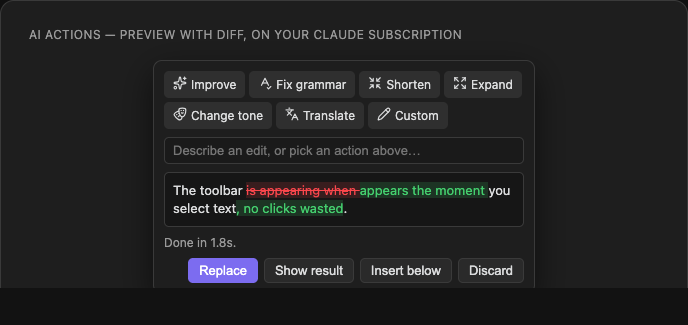
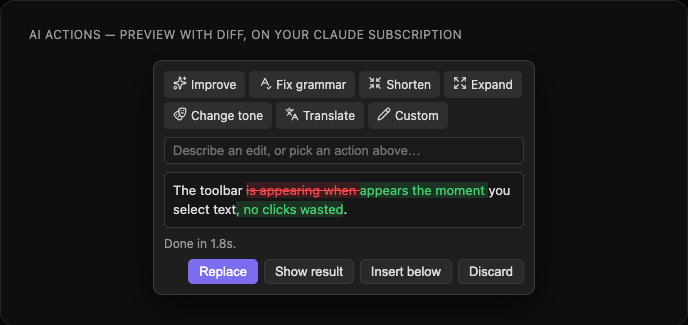
Add multi-row toolbar layout + cleaner AI working loader
New setting lays toolbar buttons across multiple rows (grid wrap, configurable columns), bypassing the overflow menu. The AI 'working' state now shows an animated shimmer 'Claude is working…' loader instead of a seconds counter. README gains multi-row + loader screenshots (rendered from the real styles.css).

diff --git a/docs/preview.html b/docs/preview.html
@@ -39,7 +39,7 @@
 
   html, body {
     margin: 0;
-    background: #121212;
+    background: #060608;
     font-family: var(--font-text);
     color: var(--text-normal);
   }
@@ -54,8 +54,8 @@
   }
 
   .card {
-    background: var(--background-primary);
-    border: 1px solid var(--background-modifier-border);
+    background: #0e0e10;
+    border: 1px solid #232325;
     border-radius: 14px;
     padding: 26px 28px 30px;
     position: relative;
@@ -125,6 +125,59 @@
     <p class="editor-line">Selection Toolbar makes <span class="sel">formatting and AI edits</span> one click away — themed to match your vault.</p>
   </div>
 
+  <!-- Shot 1b: multi-row (grid) toolbar -->
+  <div class="card" id="shot-grid">
+    <p class="caption">Multi-row toolbar (optional)</p>
+    <div class="float">
+      <div class="selection-toolbar selection-toolbar-grid" role="toolbar" style="--stb-cols: 7;">
+        <div class="selection-toolbar-btn is-active" aria-label="Bold"><i data-lucide="bold"></i></div>
+        <div class="selection-toolbar-btn" aria-label="Italic"><i data-lucide="italic"></i></div>
+        <div class="selection-toolbar-btn" aria-label="Strikethrough"><i data-lucide="strikethrough"></i></div>
+        <div class="selection-toolbar-btn" aria-label="Highlight"><i data-lucide="highlighter"></i></div>
+        <div class="selection-toolbar-btn" aria-label="Inline code"><i data-lucide="code"></i></div>
+        <div class="selection-toolbar-btn" aria-label="Heading 1"><i data-lucide="heading-1"></i></div>
+        <div class="selection-toolbar-btn" aria-label="Heading 2"><i data-lucide="heading-2"></i></div>
+        <div class="selection-toolbar-btn" aria-label="Heading 3"><i data-lucide="heading-3"></i></div>
+        <div class="selection-toolbar-btn" aria-label="Quote"><i data-lucide="quote"></i></div>
+        <div class="selection-toolbar-btn" aria-label="Bullet list"><i data-lucide="list"></i></div>
+        <div class="selection-toolbar-btn" aria-label="Numbered list"><i data-lucide="list-ordered"></i></div>
+        <div class="selection-toolbar-btn" aria-label="Checklist"><i data-lucide="square-check"></i></div>
+        <div class="selection-toolbar-btn" aria-label="Code block"><i data-lucide="square-code"></i></div>
+        <div class="selection-toolbar-btn" aria-label="Comment"><i data-lucide="message-square"></i></div>
+        <div class="selection-toolbar-btn" aria-label="Link"><i data-lucide="link"></i></div>
+        <div class="selection-toolbar-btn" aria-label="Internal link"><i data-lucide="file-symlink"></i></div>
+        <div class="selection-toolbar-btn" aria-label="Clear formatting"><i data-lucide="remove-formatting"></i></div>
+        <div class="selection-toolbar-btn is-ai" aria-label="AI actions"><i data-lucide="wand-2"></i></div>
+      </div>
+    </div>
+  </div>
+
+  <!-- Shot 1c: AI working loader -->
+  <div class="card" id="shot-working">
+    <p class="caption">AI working — animated, no seconds counter</p>
+    <div class="panel-stage">
+      <div class="selection-ai-panel">
+        <div class="selection-ai-actions">
+          <div class="selection-ai-action"><span><i data-lucide="sparkles"></i></span><span>Improve</span></div>
+          <div class="selection-ai-action"><span><i data-lucide="spell-check"></i></span><span>Fix grammar</span></div>
+          <div class="selection-ai-action"><span><i data-lucide="languages"></i></span><span>Translate</span></div>
+        </div>
+        <div class="selection-ai-prompt-row">
+          <input class="selection-ai-prompt" type="text" value="" placeholder="Describe an edit, or pick an action above…" />
+        </div>
+        <div class="selection-ai-output">
+          <div class="selection-ai-working">
+            <span class="selection-ai-spinner"></span>
+            <span class="selection-ai-working-label">Claude is working…</span>
+          </div>
+        </div>
+        <div class="selection-ai-footer">
+          <button class="selection-ai-btn">Stop</button>
+        </div>
+      </div>
+    </div>
+  </div>
+
   <!-- Shot 2: AI panel with diff preview -->
   <div class="card" id="shot-ai">
     <p class="caption">AI actions — preview with diff, on your Claude subscription</p>
@@ -155,6 +208,11 @@
   </div>
 
 </div>
-<script>lucide.createIcons();</script>
+<script>
+  // #<card-id> in the URL isolates a single card (used for tight screenshots).
+  const only = location.hash.slice(1);
+  if (only) document.querySelectorAll(".card").forEach((c) => { if (c.id !== only) c.remove(); });
+  lucide.createIcons();
+</script>
 </body>
 </html>

diff --git a/src/settings.ts b/src/settings.ts
@@ -12,6 +12,10 @@ export interface SelectionToolbarSettings {
   minSelectionLength: number;
   /** Max command buttons in the bar before extras move to a ⋯ menu (0 = all). */
   toolbarMaxButtons: number;
+  /** Lay buttons across multiple rows (grid) instead of one row + ⋯ menu. */
+  toolbarMultiRow: boolean;
+  /** Approx. buttons per row when multi-row is on. */
+  toolbarColumns: number;
 
   // AI — via the local Claude Code CLI (subscription).
   aiEnabled: boolean;
@@ -33,6 +37,8 @@ export const DEFAULT_SETTINGS: SelectionToolbarSettings = {
   showDelayMs: 120,
   minSelectionLength: 1,
   toolbarMaxButtons: 14,
+  toolbarMultiRow: false,
+  toolbarColumns: 7,
 
   aiEnabled: true,
   claudeCliPath: "",
@@ -90,18 +96,45 @@ export class SelectionToolbarSettingTab extends PluginSettingTab {
       );
 
     new Setting(containerEl)
-      .setName("Max buttons in the bar")
-      .setDesc("Beyond this, extra buttons move into a ⋯ overflow menu. 0 = show all in one row.")
-      .addSlider((s) =>
-        s
-          .setLimits(0, 24, 1)
-          .setValue(this.plugin.settings.toolbarMaxButtons)
-          .setDynamicTooltip()
-          .onChange(async (v) => {
-            this.plugin.settings.toolbarMaxButtons = v;
-            await this.plugin.saveSettings();
-          })
+      .setName("Multi-row toolbar")
+      .setDesc("Lay all buttons out on multiple rows (grid) instead of one row with a ⋯ overflow menu.")
+      .addToggle((tg) =>
+        tg.setValue(this.plugin.settings.toolbarMultiRow).onChange(async (v) => {
+          this.plugin.settings.toolbarMultiRow = v;
+          await this.plugin.saveSettings();
+          this.display();
+        })
       );
+
+    if (this.plugin.settings.toolbarMultiRow) {
+      new Setting(containerEl)
+        .setName("Buttons per row")
+        .setDesc("Roughly how many buttons fit on each row before wrapping.")
+        .addSlider((s) =>
+          s
+            .setLimits(3, 10, 1)
+            .setValue(this.plugin.settings.toolbarColumns)
+            .setDynamicTooltip()
+            .onChange(async (v) => {
+              this.plugin.settings.toolbarColumns = v;
+              await this.plugin.saveSettings();
+            })
+        );
+    } else {
+      new Setting(containerEl)
+        .setName("Max buttons in the bar")
+        .setDesc("Beyond this, extra buttons move into a ⋯ overflow menu. 0 = show all in one row.")
+        .addSlider((s) =>
+          s
+            .setLimits(0, 24, 1)
+            .setValue(this.plugin.settings.toolbarMaxButtons)
+            .setDynamicTooltip()
+            .onChange(async (v) => {
+              this.plugin.settings.toolbarMaxButtons = v;
+              await this.plugin.saveSettings();
+            })
+        );
+    }
 
     // ---- Commands ----
     new Setting(containerEl).setName("Commands").setHeading();

diff --git a/src/ai/panel.ts b/src/ai/panel.ts
@@ -56,9 +56,6 @@ export class AIPanel extends Component {
   private lastInput = "";
 
   // Working-state UI
-  private startedAt = 0;
-  private timerHandle: number | null = null;
-  private workingLabel: HTMLElement | null = null;
   private firstDelta = false;
   private textEl: HTMLElement | null = null;
 
@@ -216,7 +213,6 @@ export class AIPanel extends Component {
         onDelta: (delta) => this.onDelta(delta, direct),
       });
     } catch (e) {
-      this.stopWorking();
       this.generating = false;
       if (direct) this.restoreDirect();
       if (isAbort(e)) {
@@ -232,14 +228,12 @@ export class AIPanel extends Component {
       return;
     }
 
-    this.stopWorking();
     this.generating = false;
     if (direct) {
       this.close();
       return;
     }
-    const elapsed = ((Date.now() - this.startedAt) / 1000).toFixed(1);
-    this.setStatus(`Done in ${elapsed}s.`);
+    this.setStatus("Done.");
     this.canDiff =
       cfg.showDiff &&
       this.original.trim().length > 0 &&
@@ -261,7 +255,6 @@ export class AIPanel extends Component {
     if (!this.firstDelta) {
       // First token arrived: drop the working spinner, start showing text.
       this.firstDelta = true;
-      this.stopWorking();
       this.outputEl.empty();
       this.outputEl.removeClass("is-empty");
       this.textEl = this.outputEl.createSpan({ cls: "selection-ai-text" });
@@ -276,29 +269,15 @@ export class AIPanel extends Component {
   private startWorking(direct: boolean): void {
     this.firstDelta = false;
     this.textEl = null;
-    this.startedAt = Date.now();
     this.outputEl.empty();
     this.outputEl.removeClass("is-empty");
     const w = this.outputEl.createDiv({ cls: "selection-ai-working" });
     w.createSpan({ cls: "selection-ai-spinner" });
-    this.workingLabel = w.createSpan({ cls: "selection-ai-working-label" });
-    this.setStatus(direct ? "Writing into the editor…" : "");
-    this.tick();
-    this.timerHandle = window.setInterval(() => this.tick(), 150);
-  }
-
-  private tick(): void {
-    if (!this.workingLabel) return;
-    const s = ((Date.now() - this.startedAt) / 1000).toFixed(1);
-    this.workingLabel.setText(`Claude is working… ${s}s`);
-  }
-
-  private stopWorking(): void {
-    if (this.timerHandle != null) {
-      window.clearInterval(this.timerHandle);
-      this.timerHandle = null;
-    }
-    this.workingLabel = null;
+    w.createSpan({
+      cls: "selection-ai-working-label",
+      text: direct ? "Writing into the editor…" : "Claude is working…",
+    });
+    this.setStatus("");
   }
 
   private renderOutput(): void {
@@ -398,7 +377,6 @@ export class AIPanel extends Component {
   close(): void {
     this.controller?.abort();
     this.controller = null;
-    this.stopWorking();
     this.cleanupAutoUpdate?.();
     this.cleanupAutoUpdate = null;
     this.el.hide();
@@ -429,7 +407,6 @@ export class AIPanel extends Component {
 
   onunload(): void {
     this.controller?.abort();
-    this.stopWorking();
     this.cleanupAutoUpdate?.();
     this.el.remove();
   }

diff --git a/styles.css b/styles.css
@@ -81,6 +81,13 @@
   max-width: 360px;
 }
 
+/* Multi-row layout — all buttons wrap onto a compact grid. */
+.selection-toolbar-grid {
+  flex-wrap: wrap;
+  justify-content: flex-start;
+  max-width: calc(var(--stb-cols, 7) * 33px + 8px);
+}
+
 /* ---------- AI panel ---------- */
 .selection-ai-panel {
   position: fixed;
@@ -235,11 +242,27 @@
 }
 
 .selection-ai-working-label {
-  font-variant-numeric: tabular-nums;
+  font-size: var(--font-ui-small);
+  /* Shimmer the text to convey "working" without a seconds counter. */
+  background: linear-gradient(
+    90deg,
+    var(--text-muted) 35%,
+    var(--text-normal) 50%,
+    var(--text-muted) 65%
+  );
+  background-size: 200% 100%;
+  -webkit-background-clip: text;
+  background-clip: text;
+  color: transparent;
+  animation: selection-ai-shimmer 1.6s linear infinite;
 }
 
 @keyframes selection-ai-spin {
   to { transform: rotate(360deg); }
+}
+
+@keyframes selection-ai-shimmer {
+  to { background-position: -200% 0; }
 }
 
 .selection-ai-caret {
@@ -295,5 +318,10 @@
   }
   .selection-ai-caret {
     animation: none;
+  }
+  .selection-ai-working-label {
+    animation: none;
+    color: var(--text-muted);
+    -webkit-text-fill-color: var(--text-muted);
   }
 }

diff --git a/src/toolbar.ts b/src/toolbar.ts
@@ -19,6 +19,10 @@ export interface ToolbarDeps {
   onAI?: (view: EditorView, editor: Editor) => void;
   /** Max command buttons in the bar before the rest go to a ⋯ menu (0 = all). */
   maxButtons: number;
+  /** Lay buttons across multiple rows (grid) instead of one row + ⋯ menu. */
+  multiRow: boolean;
+  /** Approx. buttons per row in multi-row mode. */
+  columns: number;
 }
 
 /**
@@ -59,6 +63,22 @@ export class SelectionToolbar extends Component {
     this.el.empty();
     this.buttons.clear();
     this.destroyOverflow();
+    this.el.toggleClass("selection-toolbar-grid", this.deps.multiRow);
+
+    // Multi-row: all buttons wrap onto a grid, no overflow menu.
+    if (this.deps.multiRow) {
+      this.el.style.setProperty("--stb-cols", String(this.deps.columns));
+      for (const cmd of this.deps.commands) {
+        const btn = this.makeButton(this.el, cmd.icon, cmd.label, () => this.runCommand(cmd));
+        this.buttons.set(cmd.id, btn);
+      }
+      if (this.deps.onAI) {
+        const ai = this.makeButton(this.el, "wand-2", "AI actions", () => this.runAI());
+        ai.addClass("is-ai");
+      }
+      return;
+    }
+    this.el.style.removeProperty("--stb-cols");
 
     const cmds = this.deps.commands;
     const max = this.deps.maxButtons;

diff --git a/src/main.ts b/src/main.ts
@@ -155,6 +155,8 @@ export default class SelectionToolbarPlugin extends Plugin {
       resolveEditor: (view) => this.resolveEditor(view),
       onAI: aiReady ? (view, editor) => this.aiPanel.open(view, editor) : undefined,
       maxButtons: this.settings.toolbarMaxButtons,
+      multiRow: this.settings.toolbarMultiRow,
+      columns: this.settings.toolbarColumns,
     });
     this.addChild(this.toolbar);
   }

diff --git a/README.md b/README.md
@@ -6,6 +6,10 @@ The toolbar is themed entirely via Obsidian's CSS variables, so it matches your 
 
 ![Floating formatting toolbar over a text selection](docs/toolbar.png)
 
+![Multi-row toolbar layout](docs/toolbar-grid.png)
+
+![AI working — animated loader while Claude runs](docs/ai-working.png)
+
 ![AI actions panel with a before/after diff preview](docs/ai-panel.png)
 
 ## Features